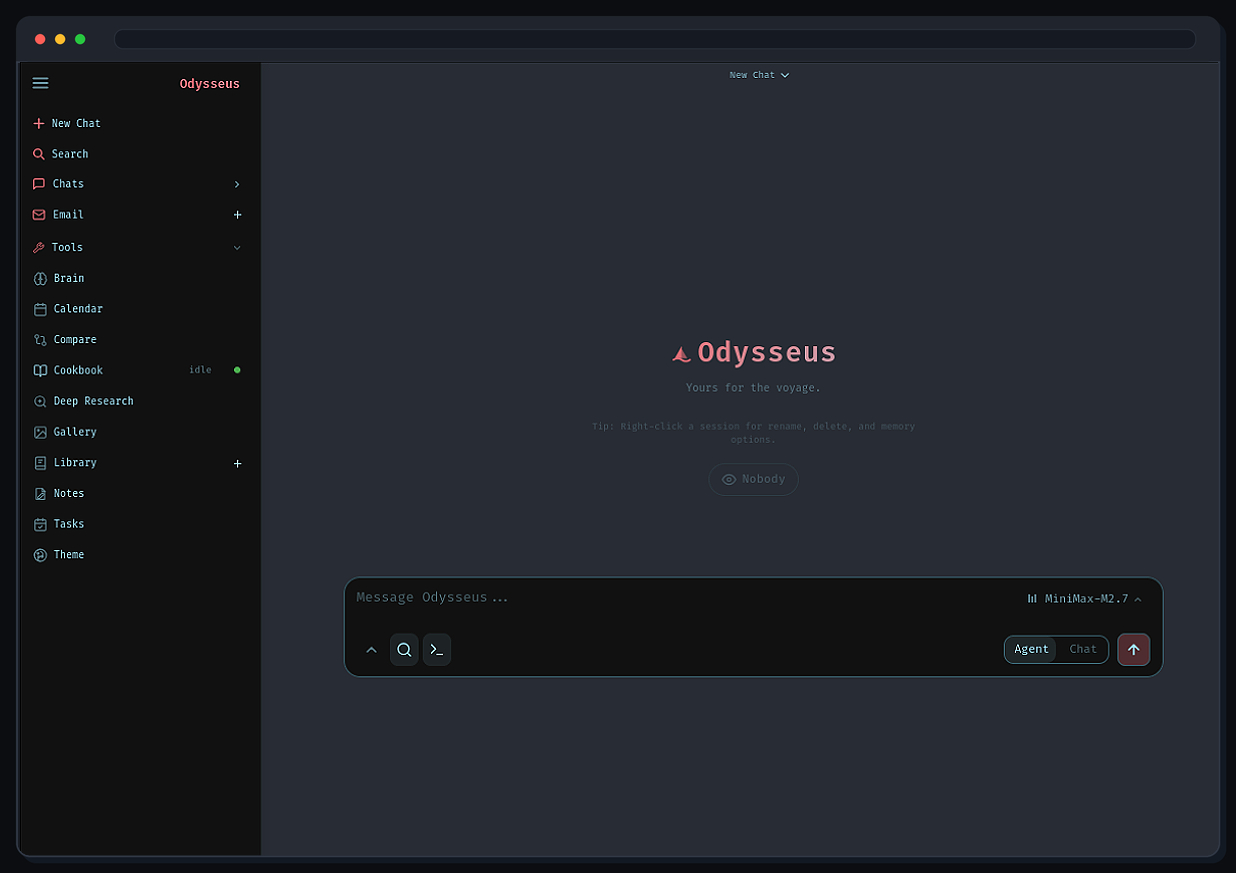
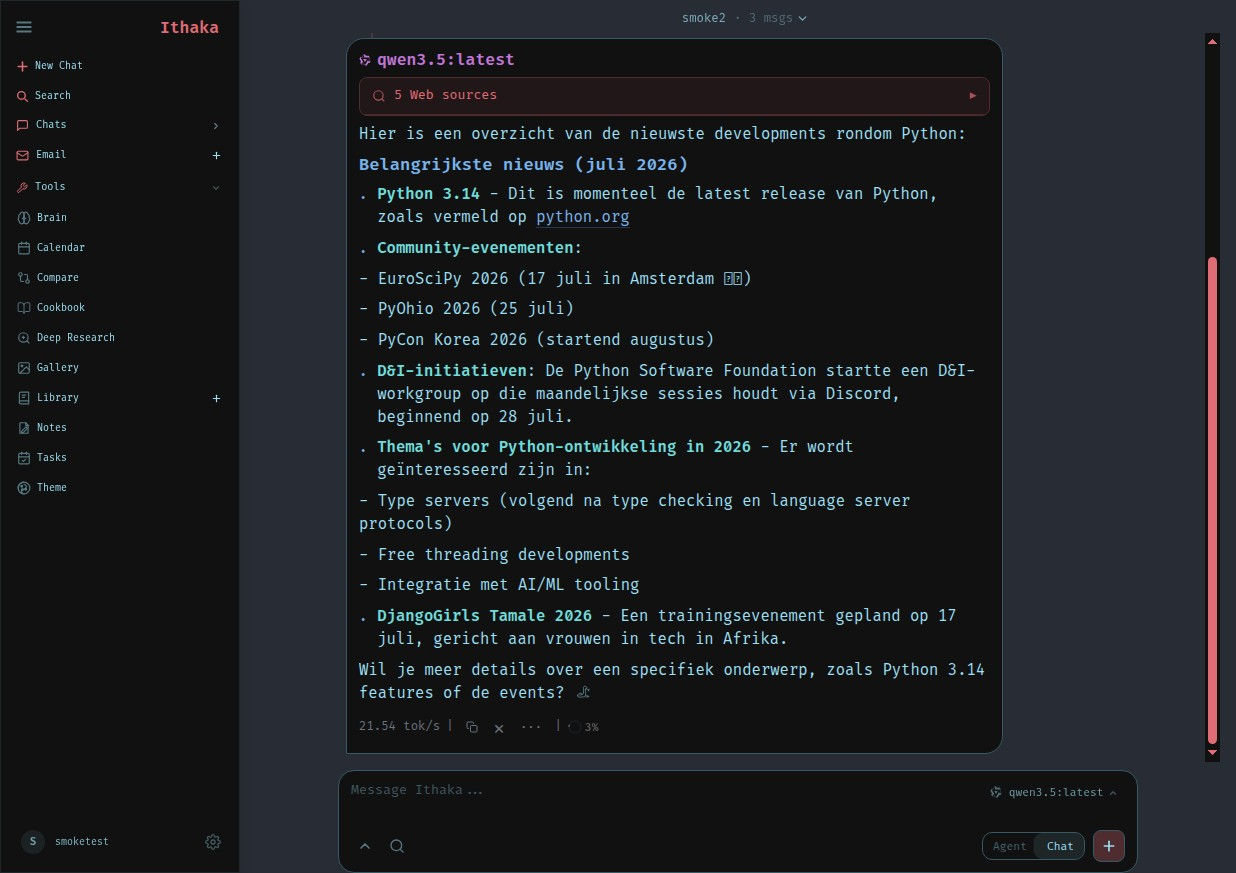
Point repo URLs at EdF2021/ithaka and refresh README screenshot
GitHub repo renamed odysseus -> ithaka; all in-repo links and clone
instructions updated. README screenshot replaced with a capture of the
running Ithaka UI (old image still showed Odysseus branding).

Ed de Feber, in nauwe samenwerking met Claude

diff --git a/docs/index.html b/docs/index.html
@@ -409,7 +409,7 @@
         <a href="#testimonials">Testimonials</a>
         <a href="#how">How it started</a>
         <a href="#start">Get started</a>
-        <a class="btn" href="https://github.com/EdF2021/odysseus" target="_blank">
+        <a class="btn" href="https://github.com/EdF2021/ithaka" target="_blank">
           <svg width="16" height="16" viewBox="0 0 24 24" fill="currentColor"><path d="M12 .5C5.7.5.5 5.7.5 12c0 5.1 3.3 9.4 7.9 10.9.6.1.8-.2.8-.6v-2c-3.2.7-3.9-1.5-3.9-1.5-.5-1.3-1.3-1.7-1.3-1.7-1-.7.1-.7.1-.7 1.2.1 1.8 1.2 1.8 1.2 1 1.8 2.7 1.3 3.4 1 .1-.8.4-1.3.7-1.6-2.6-.3-5.3-1.3-5.3-5.7 0-1.3.5-2.3 1.2-3.1-.1-.3-.5-1.5.1-3.1 0 0 1-.3 3.3 1.2a11.5 11.5 0 0 1 6 0C17.3 4.7 18.3 5 18.3 5c.6 1.6.2 2.8.1 3.1.8.8 1.2 1.8 1.2 3.1 0 4.4-2.7 5.4-5.3 5.7.4.4.8 1.1.8 2.2v3.3c0 .4.2.7.8.6 4.6-1.5 7.9-5.8 7.9-10.9C23.5 5.7 18.3.5 12 .5z"/></svg>
           GitHub
         </a>
@@ -437,7 +437,7 @@
       </p>
       <div class="hero-cta">
         <a class="btn primary" href="#start">Get started</a>
-        <a class="btn" href="https://github.com/EdF2021/odysseus" target="_blank">View on GitHub</a>
+        <a class="btn" href="https://github.com/EdF2021/ithaka" target="_blank">View on GitHub</a>
       </div>
 
     </div>
@@ -678,9 +678,9 @@
         <div class="eyebrow"><svg viewBox="0 0 24 24" fill="none" stroke="currentColor" stroke-width="2" stroke-linecap="round" stroke-linejoin="round"><path d="M4 17l6-5-6-5"/><path d="M12 19h8"/></svg>Get started</div>
         <h2 class="h" style="margin-bottom:6px;">Ithaka is yours.</h2>
         <p class="sub center" style="margin:0 auto;">It's open source and free. No sales team, no demo request, no Trojan horse.</p>
-        <div class="codeblock"><span><span class="prompt">$</span> git clone https://github.com/EdF2021/odysseus.git &amp;&amp; cd odysseus</span><button class="copy-btn" data-copy="git clone https://github.com/EdF2021/odysseus.git && cd odysseus">Copy</button></div>
+        <div class="codeblock"><span><span class="prompt">$</span> git clone https://github.com/EdF2021/ithaka.git &amp;&amp; cd ithaka</span><button class="copy-btn" data-copy="git clone https://github.com/EdF2021/ithaka.git && cd ithaka">Copy</button></div>
         <div>
-          <a class="btn primary" href="https://github.com/EdF2021/odysseus" target="_blank" style="margin-top:14px;">View on GitHub</a>
+          <a class="btn primary" href="https://github.com/EdF2021/ithaka" target="_blank" style="margin-top:14px;">View on GitHub</a>
         </div>
         <div class="pill-row">
           <span class="pill">Self-hosted</span>

diff --git a/docs/setup.md b/docs/setup.md
@@ -4,7 +4,7 @@ This page keeps the detailed install, deployment, troubleshooting, and configura
 
 ## Quick Start
 
-> **Branch note:** `dev` is the default branch and contains the latest development changes, but it may be unstable. For the more stable curated branch, use [`main`](https://github.com/EdF2021/odysseus/tree/main).
+> **Branch note:** `dev` is the default branch and contains the latest development changes, but it may be unstable. For the more stable curated branch, use [`main`](https://github.com/EdF2021/ithaka/tree/main).
 
 Defaults work out of the box: clone, run, then configure models/search/email
 inside **Settings**. Only edit `.env` for deployment-level overrides like
@@ -20,8 +20,8 @@ pull request guidelines.
 
 ### Docker (recommended)
 ```bash
-git clone https://github.com/EdF2021/odysseus.git
-cd odysseus
+git clone https://github.com/EdF2021/ithaka.git
+cd ithaka
 cp .env.example .env       # optional, but recommended for explicit defaults
 docker compose up -d --build
 ```
@@ -38,8 +38,8 @@ only when you intentionally want LAN/reverse-proxy access.
 
 ### Native Linux / macOS
 ```bash
-git clone https://github.com/EdF2021/odysseus.git
-cd odysseus
+git clone https://github.com/EdF2021/ithaka.git
+cd ithaka
 python3 -m venv venv
 source venv/bin/activate
 pip install -r requirements.txt
@@ -56,8 +56,8 @@ Docker on macOS cannot use the Metal GPU. For GPU-accelerated Cookbook on an
 M-series Mac, run Ithaka natively:
 
 ```bash
-git clone https://github.com/EdF2021/odysseus.git
-cd odysseus
+git clone https://github.com/EdF2021/ithaka.git
+cd ithaka
 ./start-macos.sh
 ```
 
@@ -257,16 +257,16 @@ do not run on macOS. MLX-only models are not served by Ithaka.
 server; safe to re-run):
 
 ```powershell
-git clone https://github.com/EdF2021/odysseus.git
-cd odysseus
+git clone https://github.com/EdF2021/ithaka.git
+cd ithaka
 powershell -ExecutionPolicy Bypass -File .\launch-windows.ps1
 ```
 
 Or do it by hand:
 
 ```powershell
-git clone https://github.com/EdF2021/odysseus.git
-cd odysseus
+git clone https://github.com/EdF2021/ithaka.git
+cd ithaka
 py -3.11 -m venv venv
 venv\Scripts\Activate.ps1
 pip install -r requirements.txt

diff --git a/.github/pull_request_template.md b/.github/pull_request_template.md
@@ -24,7 +24,7 @@ Fixes #
 
 ## Checklist
 
-- [ ] I searched [open issues](https://github.com/EdF2021/odysseus/issues) and [open PRs](https://github.com/EdF2021/odysseus/pulls) — this is not a duplicate.
+- [ ] I searched [open issues](https://github.com/EdF2021/ithaka/issues) and [open PRs](https://github.com/EdF2021/ithaka/pulls) — this is not a duplicate.
 - [ ] This PR targets `dev`
 - [ ] My changes are limited to the scope described above — no unrelated refactors or whitespace changes mixed in.
 - [ ] I actually ran the app (`docker compose up` or `uvicorn app:app`) and verified the change works end-to-end. Type-checks and unit tests are not enough.

diff --git a/README.md b/README.md
@@ -19,11 +19,11 @@
 
 ## Quick Start
 
-> `dev` is the default branch and gets the newest changes first. Use [`main`](https://github.com/EdF2021/odysseus/tree/main) if you want the more curated branch.
+> `dev` is the default branch and gets the newest changes first. Use [`main`](https://github.com/EdF2021/ithaka/tree/main) if you want the more curated branch.
 
 ```bash
-git clone https://github.com/EdF2021/odysseus.git
-cd odysseus
+git clone https://github.com/EdF2021/ithaka.git
+cd ithaka
 cp .env.example .env
 docker compose up -d --build
 ```

diff --git a/CONTRIBUTING.md b/CONTRIBUTING.md
@@ -25,8 +25,8 @@ End-users cloning the repo will land on `dev` by default. To run the curated/sta
 Docker is the recommended path for normal testing:
 
 ```bash
-git clone https://github.com/EdF2021/odysseus.git
-cd odysseus
+git clone https://github.com/EdF2021/ithaka.git
+cd ithaka
 cp .env.example .env
 docker compose up -d --build
 ```
